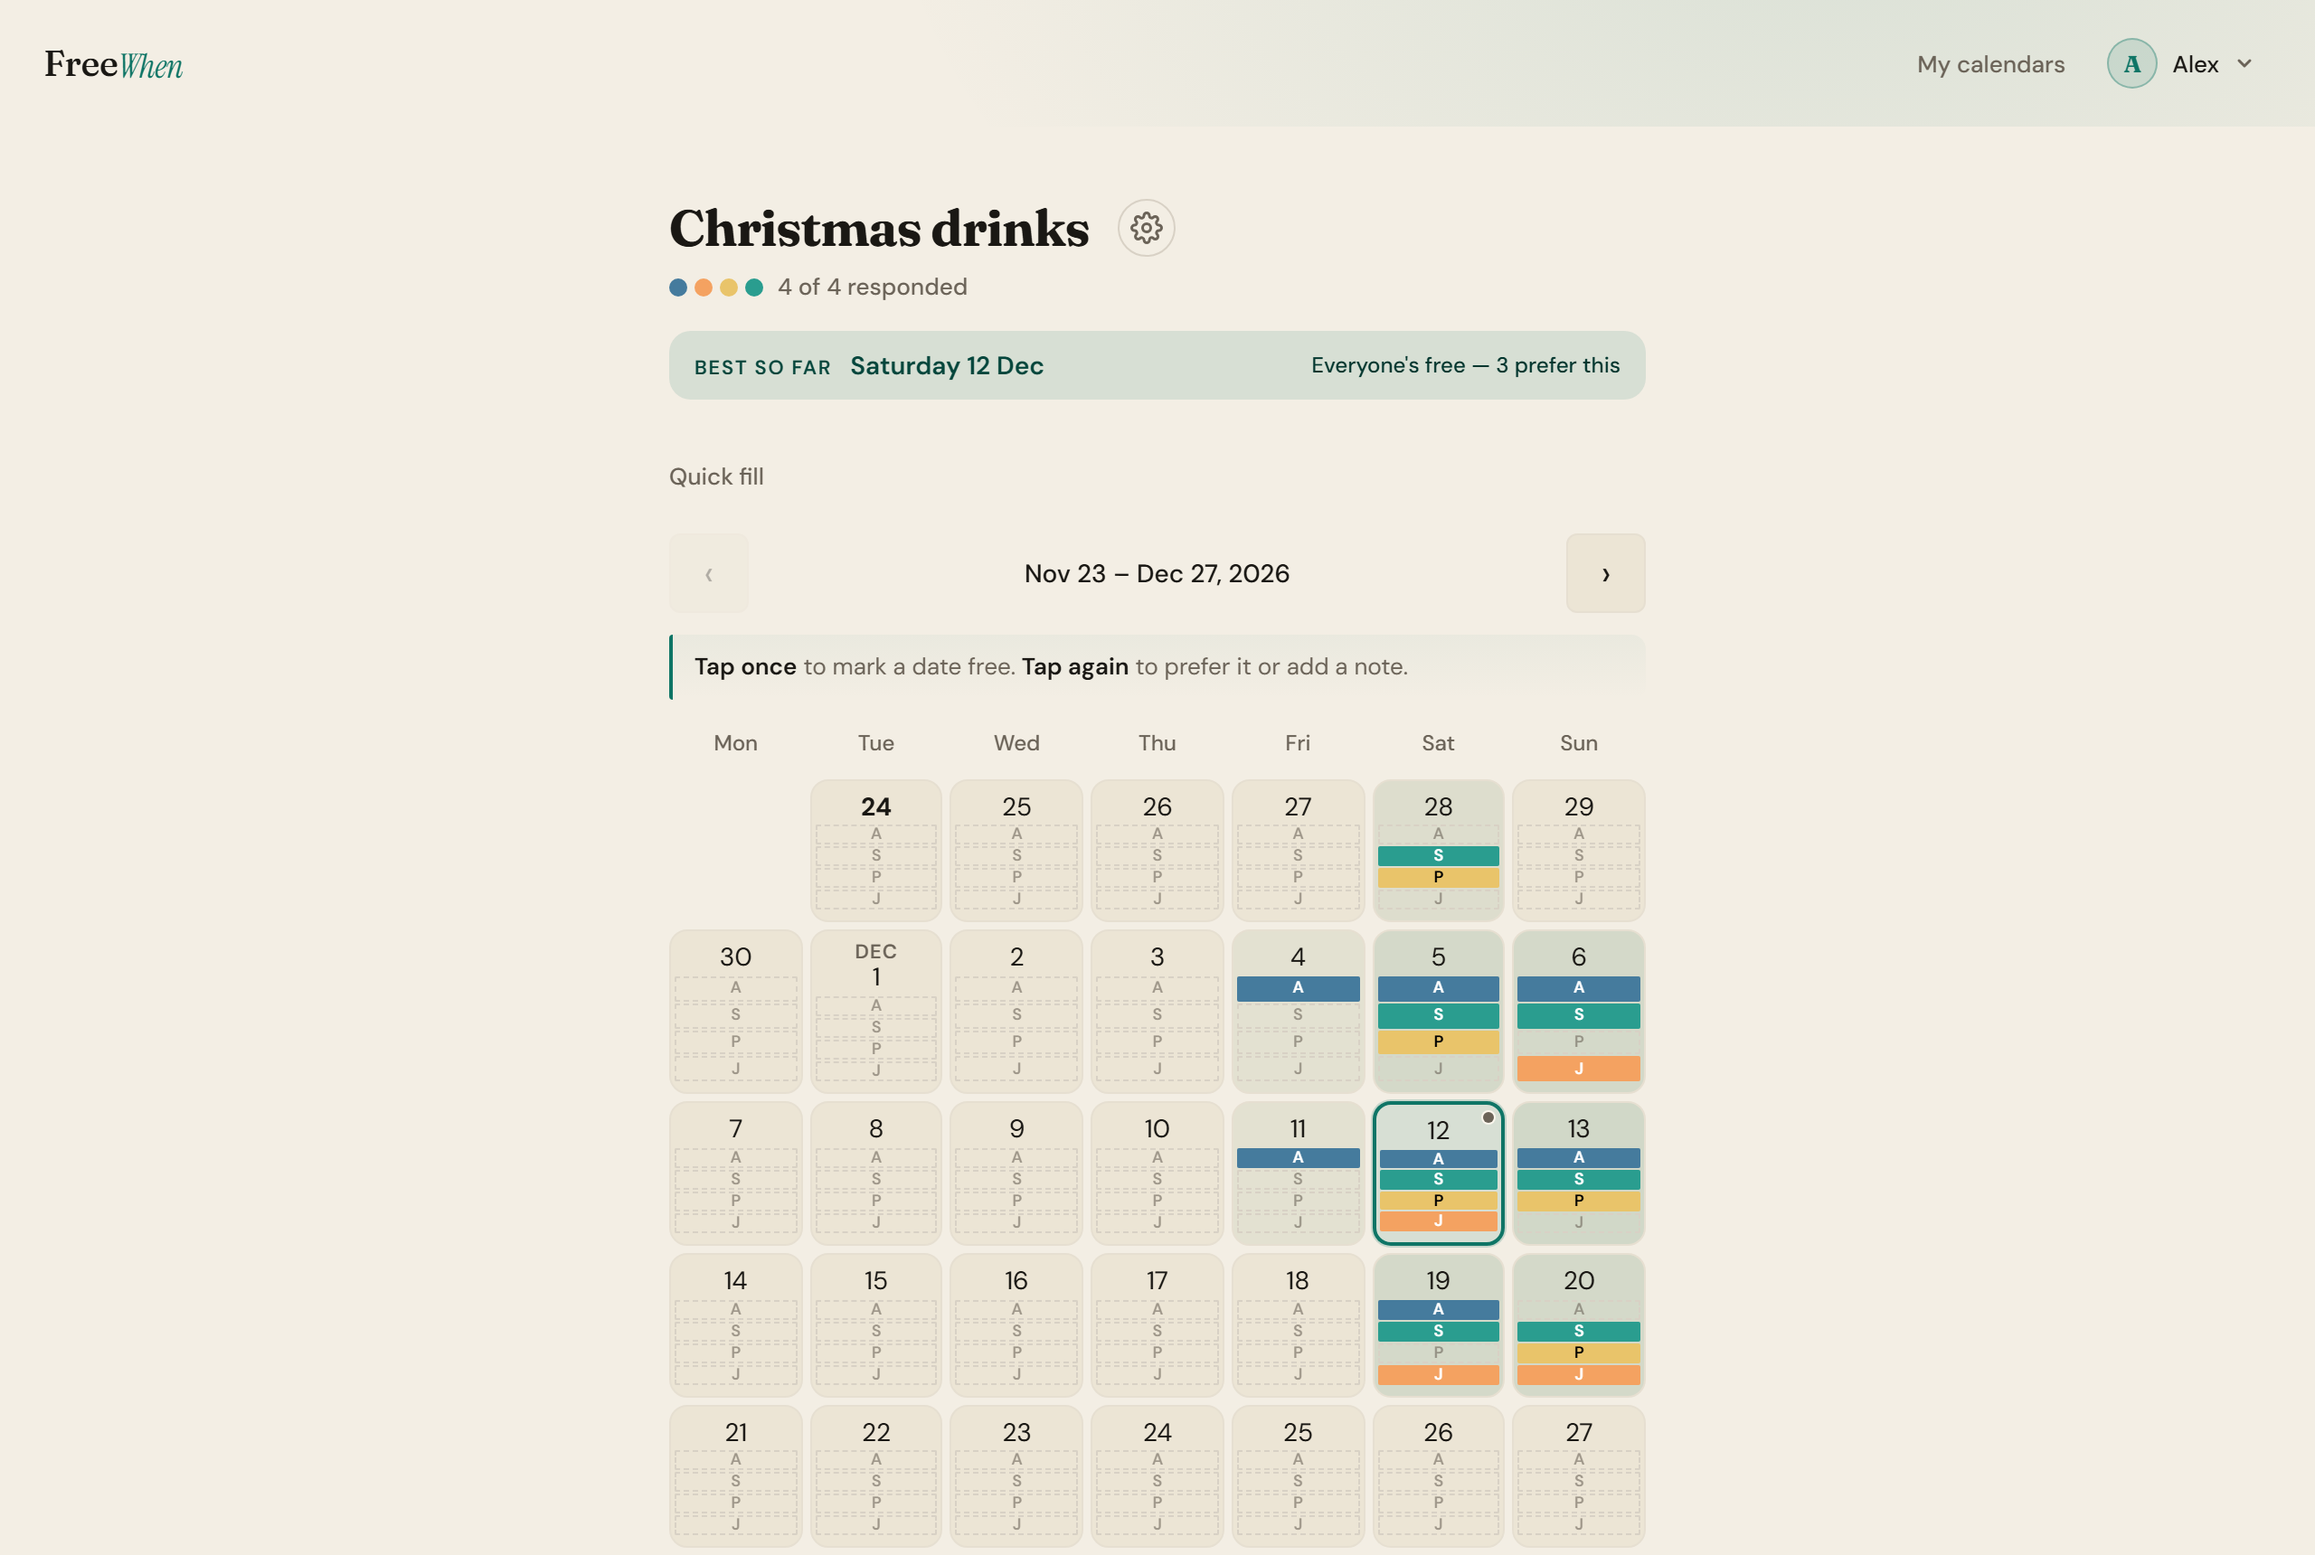
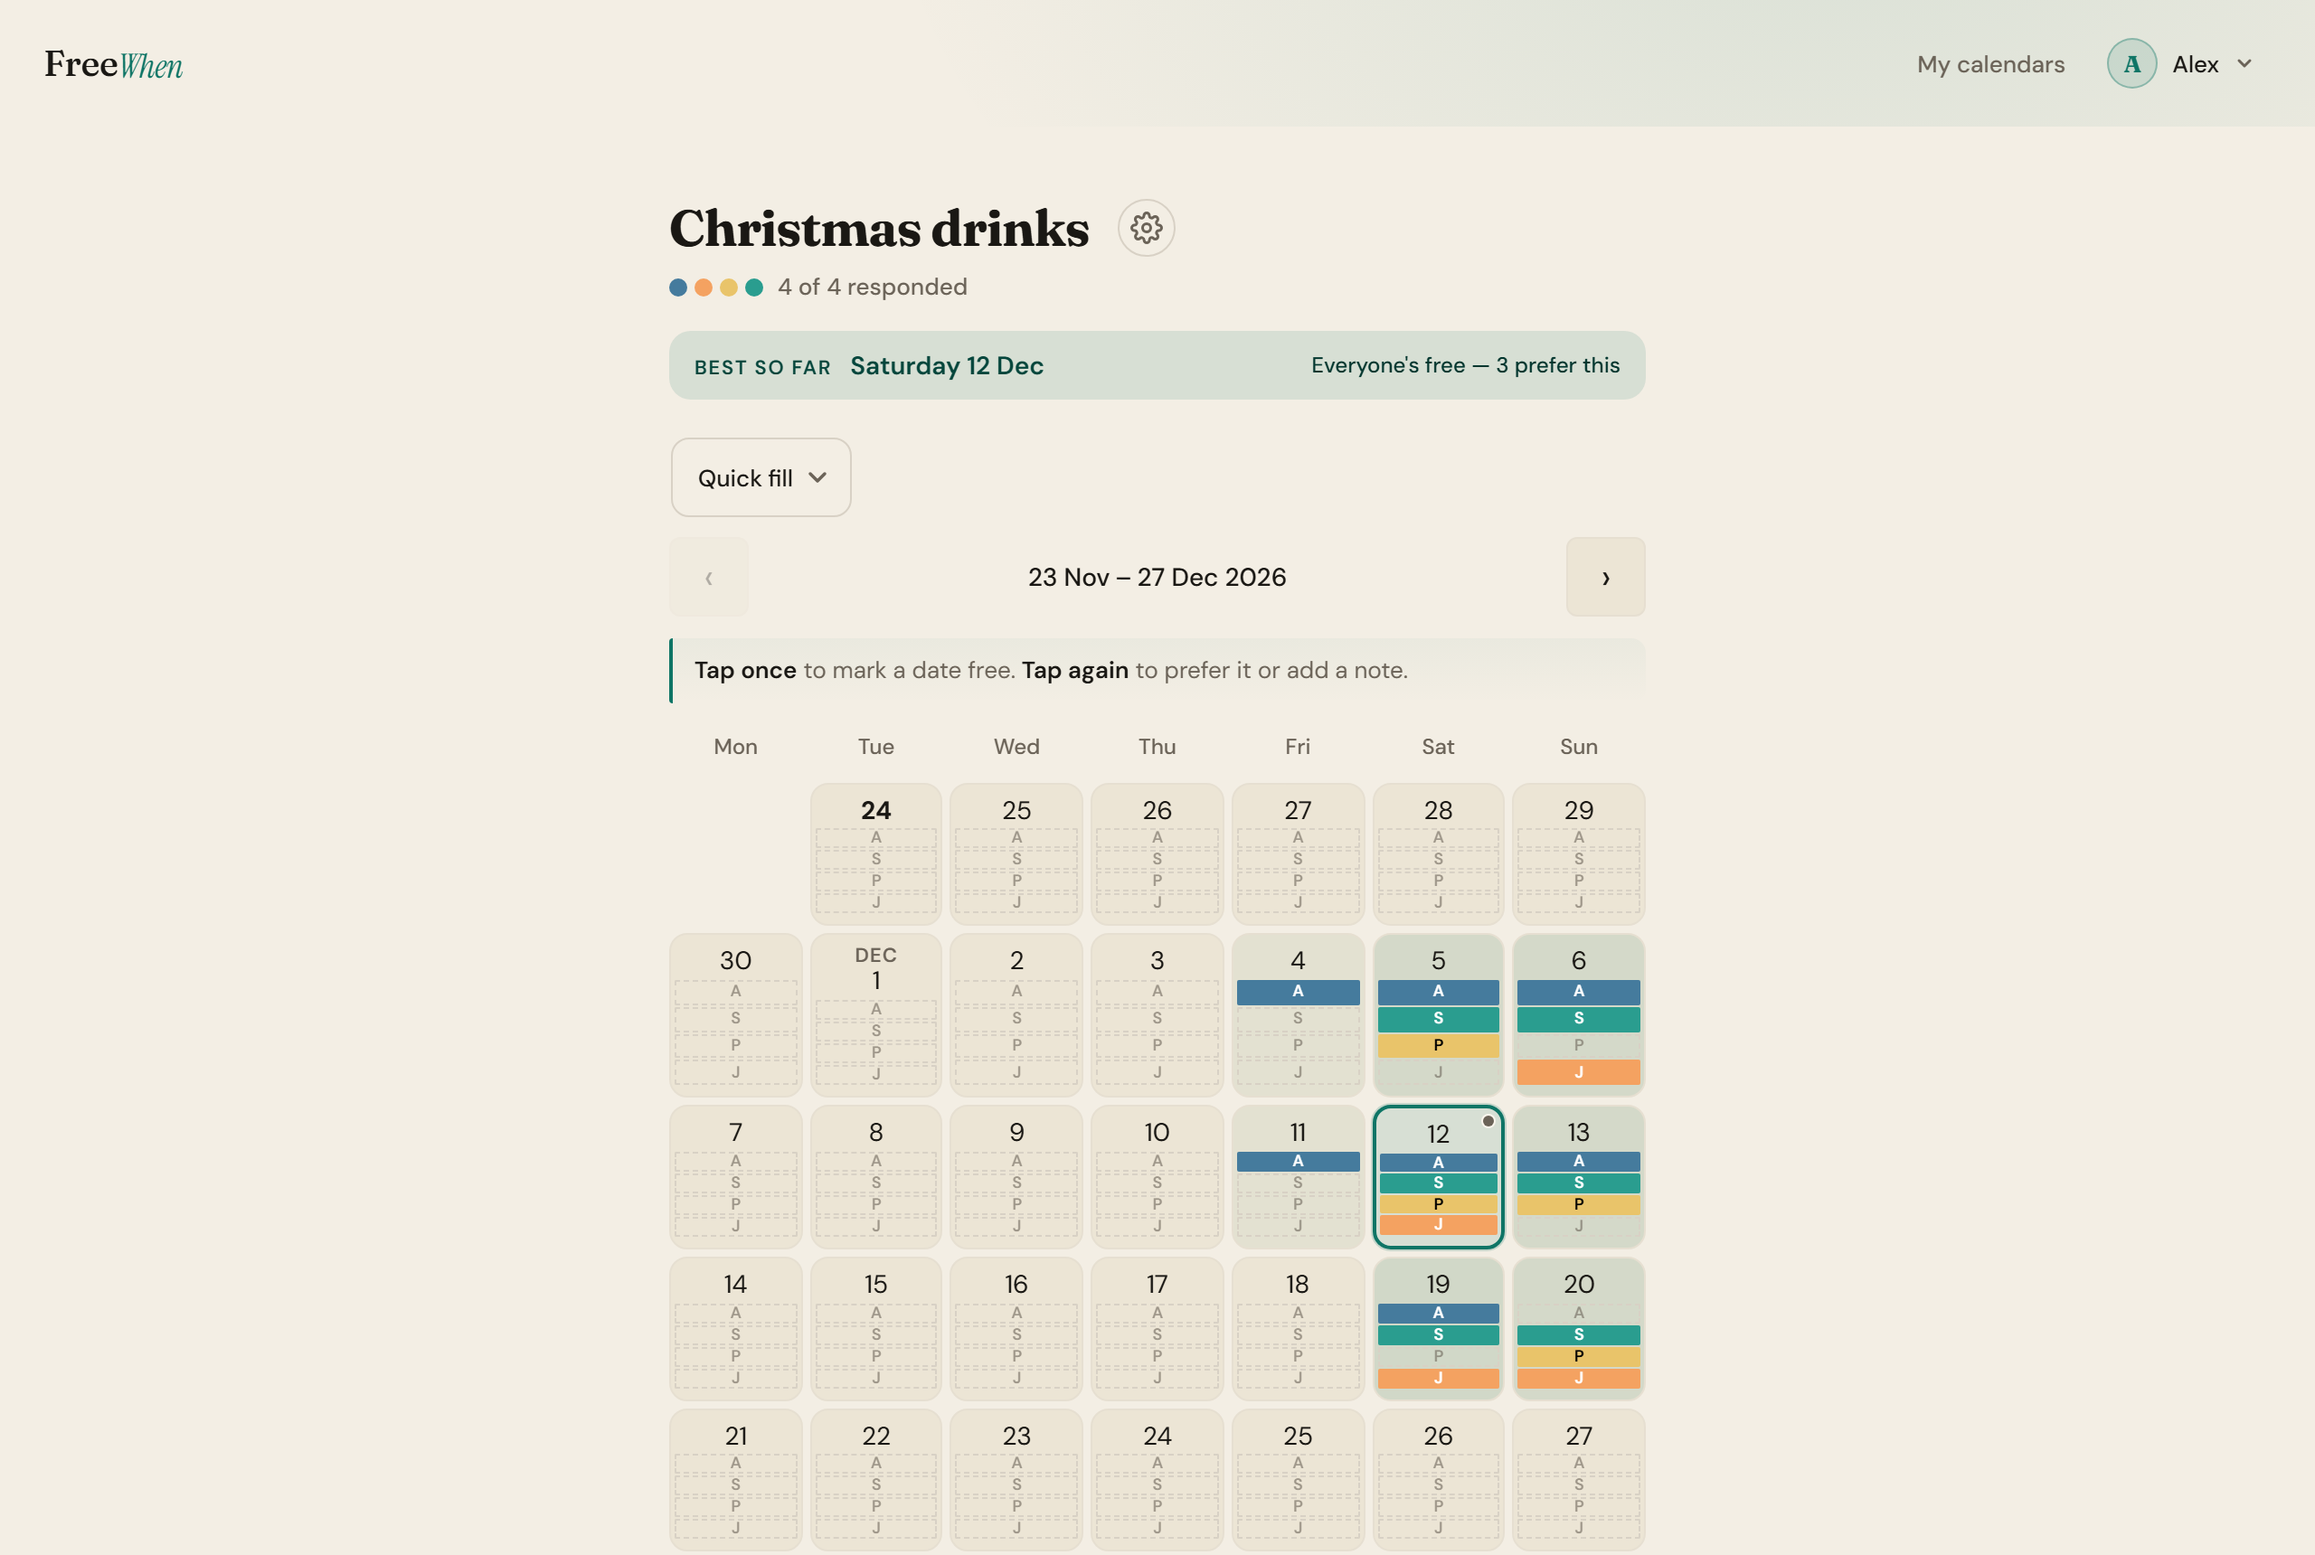
docs: refresh README screenshots and fill the empty table cell
The second row of the screenshot table had an empty third cell, and the
shots predated the UI fixes stack (plain Quick fill, mixed date orders,
the day sheet's focused note field). Retake all 12 on main in en-GB and
add a Settings shot with the new emoji picker in the empty cell. Demo
calendars get themed emojis, plus a fifth calendar so My calendars
fills the frame.

diff --git a/README.md b/README.md
@@ -10,9 +10,9 @@ Mobile first: four friends picking a date for Christmas drinks (demo data).
 
 | Landing | Calendar | Day sheet |
 |:---:|:---:|:---:|
-| <picture><source media="(prefers-color-scheme: dark)" srcset="docs/screenshots/landing-mobile-dark.png"><img src="docs/screenshots/landing-mobile.png" width="240" alt="Landing page on a phone: 'Find when everyone's free' headline, an animated availability grid, and an event name field with a Create button"></picture> | <picture><source media="(prefers-color-scheme: dark)" srcset="docs/screenshots/calendar-mobile-dark.png"><img src="docs/screenshots/calendar-mobile.png" width="240" alt="Christmas drinks calendar on a phone: 4 of 4 responded, 'Best so far: Saturday 12 Dec', and a five-week grid with each person's free days as coloured initials"></picture> | <picture><source media="(prefers-color-scheme: dark)" srcset="docs/screenshots/day-sheet-mobile-dark.png"><img src="docs/screenshots/day-sheet-mobile.png" width="240" alt="Day sheet for Saturday 12 December listing the four people free, their preferred-date stars and notes, with a 'Prefer this date' checkbox and a note field"></picture> |
-| **Finalised** | **My calendars** | |
-| <picture><source media="(prefers-color-scheme: dark)" srcset="docs/screenshots/finalised-mobile-dark.png"><img src="docs/screenshots/finalised-mobile.png" width="240" alt="Finalised book club calendar: a 'Confirmed: Thursday 3 December' banner with a note and Add to Google Calendar / Download .ics buttons above the grid"></picture> | <picture><source media="(prefers-color-scheme: dark)" srcset="docs/screenshots/my-calendars-mobile-dark.png"><img src="docs/screenshots/my-calendars-mobile.png" width="240" alt="My calendars list with three calendars, people counts, last updated times, and the confirmed date on the finalised one"></picture> | |
+| <picture><source media="(prefers-color-scheme: dark)" srcset="docs/screenshots/landing-mobile-dark.png"><img src="docs/screenshots/landing-mobile.png" width="240" alt="Landing page on a phone: 'Find when everyone's free' headline, an animated availability grid, and an event name field with a Create button"></picture> | <picture><source media="(prefers-color-scheme: dark)" srcset="docs/screenshots/calendar-mobile-dark.png"><img src="docs/screenshots/calendar-mobile.png" width="240" alt="Christmas drinks calendar on a phone: 4 of 4 responded, 'Best so far: Saturday 12 Dec', a Quick fill menu, and a five-week grid with each person's free days as coloured initials"></picture> | <picture><source media="(prefers-color-scheme: dark)" srcset="docs/screenshots/day-sheet-mobile-dark.png"><img src="docs/screenshots/day-sheet-mobile.png" width="240" alt="Day sheet for Saturday 12 December listing the four people free, their preferred-date stars and notes, with a 'Prefer this date' checkbox and a note field"></picture> |
+| **Finalised** | **My calendars** | **Settings** |
+| <picture><source media="(prefers-color-scheme: dark)" srcset="docs/screenshots/finalised-mobile-dark.png"><img src="docs/screenshots/finalised-mobile.png" width="240" alt="Finalised book club calendar: a 'Confirmed: Thursday 3 December' banner with notes from Alex and Sam, and Add to Google Calendar / Download .ics buttons above the grid"></picture> | <picture><source media="(prefers-color-scheme: dark)" srcset="docs/screenshots/my-calendars-mobile-dark.png"><img src="docs/screenshots/my-calendars-mobile.png" width="240" alt="My calendars list with five calendars, each with its own emoji, people counts, last updated times, and the confirmed date on the finalised one"></picture> | <picture><source media="(prefers-color-scheme: dark)" srcset="docs/screenshots/settings-mobile-dark.png"><img src="docs/screenshots/settings-mobile.png" width="240" alt="Calendar settings sheet: a grid of 24 emojis with the Christmas tree selected, then rename, passphrase, duplicate and delete"></picture> |
 
 <picture><source media="(prefers-color-scheme: dark)" srcset="docs/screenshots/calendar-desktop-dark.png"><img src="docs/screenshots/calendar-desktop.png" width="720" alt="The Christmas drinks calendar on a desktop browser: the same grid laid out wider, with full day names and the best date highlighted"></picture>
 

diff --git a/plans/ui/readme-screenshots.md b/plans/ui/readme-screenshots.md
@@ -24,3 +24,5 @@ The repo is public; give visitors a look at the app before they clone it. Add a 
 - 2026-11-24 10:40 — Follow-up: dark-mode variants requested. Rebased on main (Next 16.4.6, Go 1.27.4; installed the matching Playwright Chromium). Renamed the demo calendar "Summer BBQ" to "Christmas drinks" (its dates are in December), re-seeded and retook the light set
 - 2026-11-24 10:55 — Captured dark set (`colorScheme: "dark"`; the app honours prefers-color-scheme). The dark-mode grain overlay (`body::after` noise) pushed dark PNGs to ~1 MB, so both sets are shot with `reducedMotion: "reduce"`, which the app already uses to hide the grain (invisible at 2.5% opacity). All 12 files 100–255 KB
 - 2026-11-24 11:05 — README images wrapped in `<picture>` with `-dark.png` sources; `make lint` and `make test` pass; servers, embedded Postgres and temp dir cleaned up
+- 2026-11-24 14:45 — Refreshed after the UI fixes stack (#122–#126) merged. The rendered README had an empty third cell in the second table row, and the shots showed old UI: the plain "Quick fill", month-first nav dates next to day-first ones, and the day sheet with the note field focused. Retook all 12 on `main` in `en-GB` (dates now follow the browser locale). Added a sixth mobile shot, Settings with the emoji picker, to fill the empty cell. Gave the demo calendars themed emojis and added a fifth calendar, "Five-a-side", so My calendars doesn't end in a blank half screen. All 14 files are 114–255 KB.
+- Spotted while capturing: the landing page's decorative mini-grid hard-codes "NOV 23 — NOV 29", month-first, regardless of locale. Left as is; it's app code, not docs.
